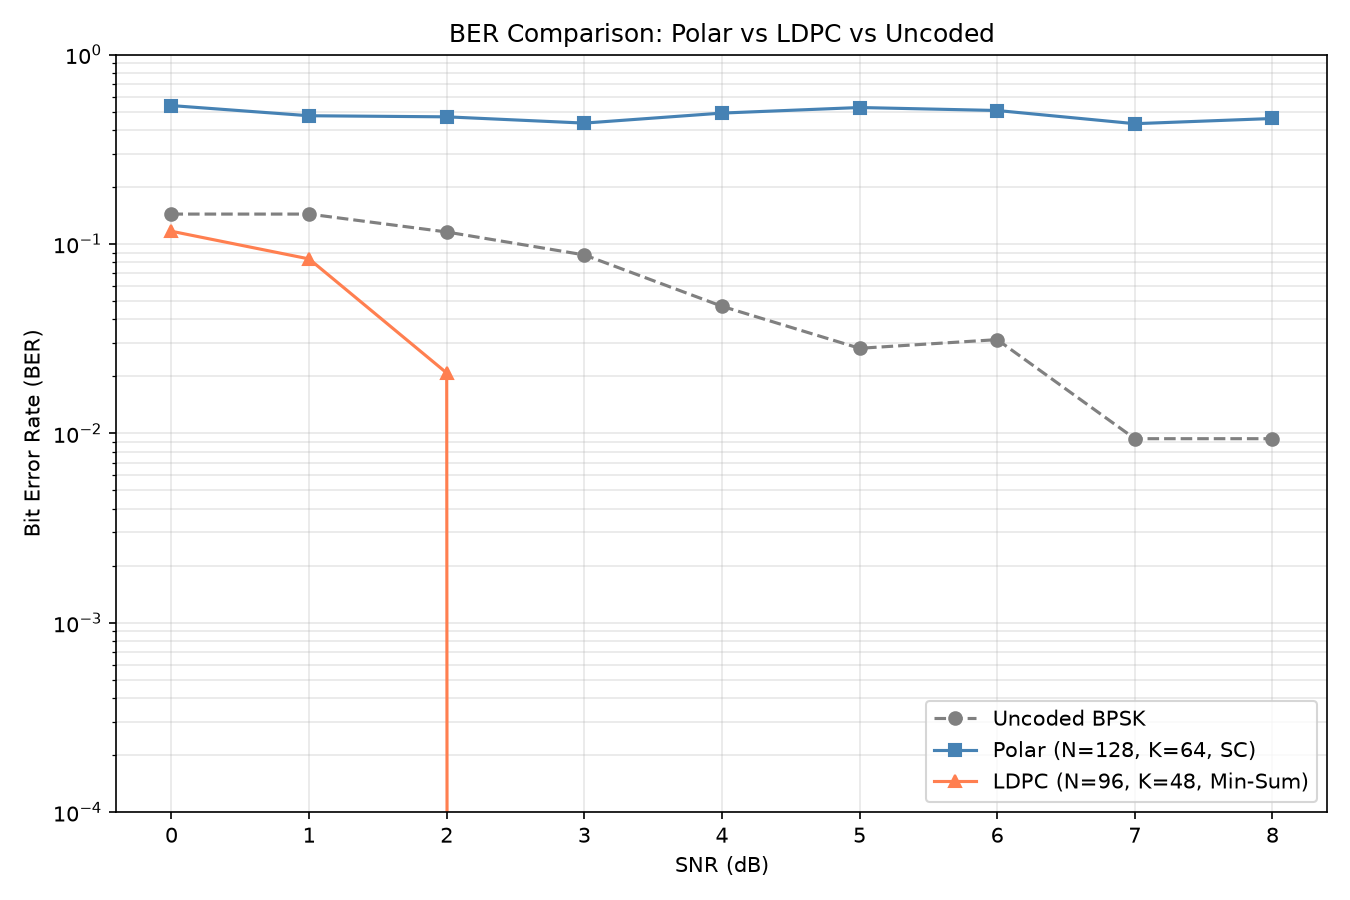
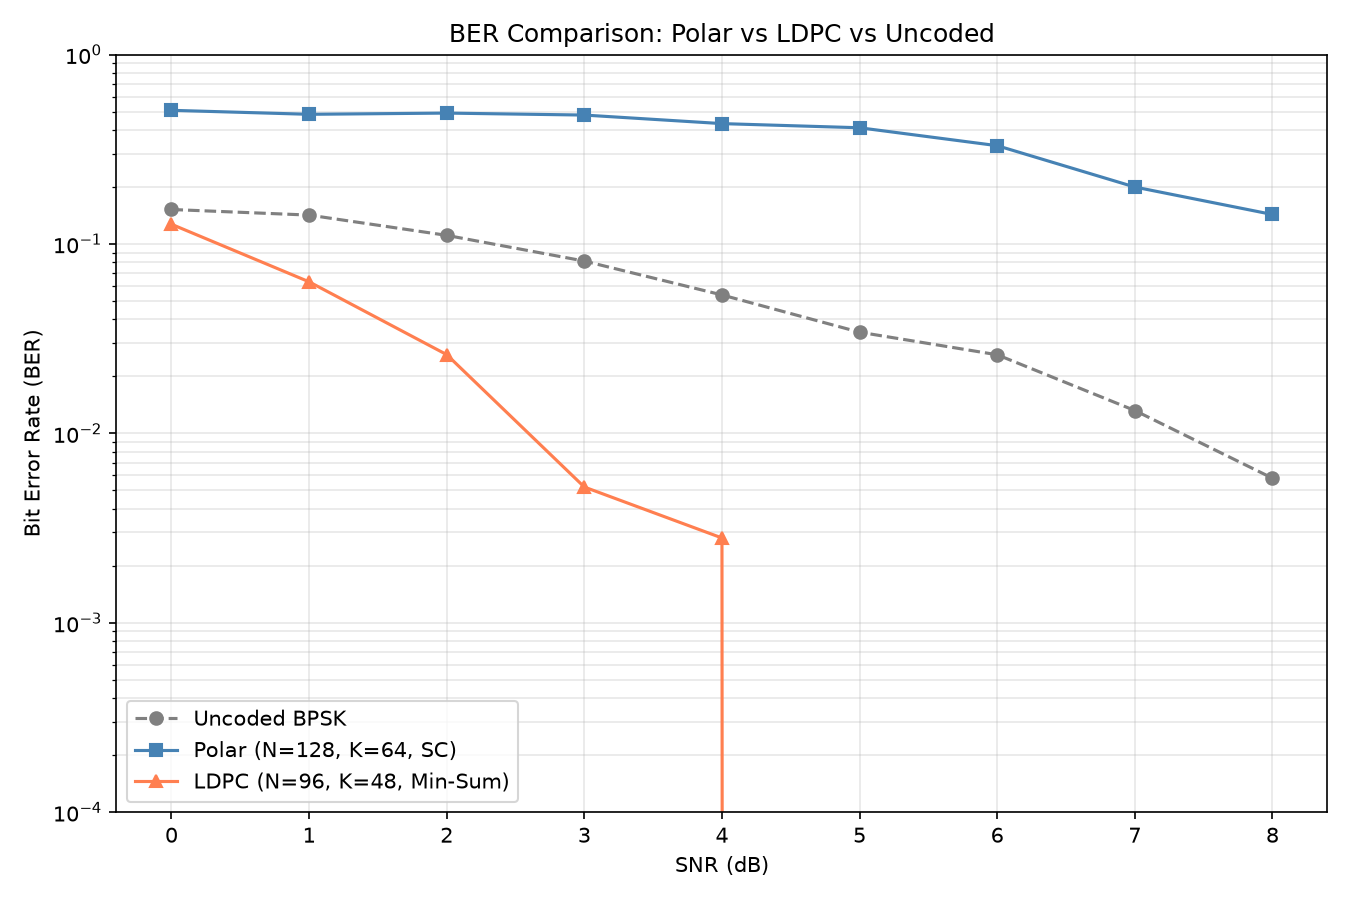
fix(p4.8): Polar SC partial sum + unified n_bits arg for BER curve

diff --git a/tasks/task2_polar_ldpc.py b/tasks/task2_polar_ldpc.py
@@ -22,89 +22,94 @@ def _bpsk_awgn_llr(bits, snr_db, rng):
     return 2 * rx / sigma**2
 
 
-def simulate_polar(K: int, N: int, snr_range: list, n_trials: int = 20,
-                   seed: int = 42) -> dict:
-    """Polar 码 BER 仿真。"""
+def simulate_polar(K: int, N: int, snr_range: list,
+                   n_bits_per_point: int = 5000, seed: int = 42) -> dict:
+    """Polar 码 BER 仿真 (大块数据)。"""
     rng = np.random.default_rng(seed)
     bers = []
     for snr in snr_range:
-        errs = []
-        for _ in range(n_trials):
+        n_blocks = max(1, n_bits_per_point // K)
+        total_err = 0
+        total_bits = 0
+        for _ in range(n_blocks):
             info = rng.integers(0, 2, size=K)
             codeword, frozen = polar_encode(info, N, design_snr_db=snr)
             llr = _bpsk_awgn_llr(codeword, snr, rng)
             decoded = polar_decode(llr, frozen, K)
             if len(decoded) < K:
-                errs.append(1.0)
+                total_err += K
             else:
-                errs.append(float(np.mean(info != decoded[:K])))
-        bers.append(float(np.mean(errs)))
+                total_err += int(np.sum(info != decoded[:K]))
+            total_bits += K
+        bers.append(total_err / total_bits)
     return {"snr": snr_range, "ber": bers, "scheme": "Polar"}
 
 
-def simulate_ldpc(snr_range: list, n_trials: int = 20, seed: int = 42) -> dict:
-    """LDPC 码 BER 仿真。"""
+def simulate_ldpc(snr_range: list, n_bits_per_point: int = 5000,
+                  seed: int = 42) -> dict:
+    """LDPC 码 BER 仿真 (大块数据)。"""
     rng = np.random.default_rng(seed)
-    code = RegularLDPC(n_var=96, dv=3, dc=6)   # 率 1/2, K=48
+    code = RegularLDPC(n_var=96, dv=3, dc=6)
     K_actual = code.K
 
     bers = []
     for snr in snr_range:
-        errs = []
-        for _ in range(n_trials):
+        n_blocks = max(1, n_bits_per_point // K_actual)
+        total_err = 0
+        total_bits = 0
+        for _ in range(n_blocks):
             info = rng.integers(0, 2, size=K_actual)
             codeword = code.encode(info)
             llr = _bpsk_awgn_llr(codeword, snr, rng)
             decoded = code.decode(llr, n_iter=30)
             if len(decoded) != K_actual:
-                errs.append(1.0)
+                total_err += K_actual
             else:
-                errs.append(float(np.mean(info != decoded)))
-        bers.append(float(np.mean(errs)))
+                total_err += int(np.sum(info != decoded))
+            total_bits += K_actual
+        bers.append(total_err / total_bits)
     return {"snr": snr_range, "ber": bers,
             "scheme": f"LDPC (N={code.N}, K={K_actual})"}
 
 
-def simulate_uncoded(K: int, snr_range: list, n_trials: int = 20,
+def simulate_uncoded(K: int, snr_range: list, n_bits_per_point: int = 5000,
                      seed: int = 42) -> dict:
-    """未编码 BPSK 的 BER。"""
+    """未编码 BPSK 的 BER (大块数据)。"""
     rng = np.random.default_rng(seed)
     bers = []
     for snr in snr_range:
-        errs = []
-        for _ in range(n_trials):
-            info = rng.integers(0, 2, size=K)
-            llr = _bpsk_awgn_llr(info, snr, rng)
-            decoded = (llr < 0).astype(int)
-            errs.append(float(np.mean(info != decoded)))
-        bers.append(float(np.mean(errs)))
+        info = rng.integers(0, 2, size=n_bits_per_point)
+        llr = _bpsk_awgn_llr(info, snr, rng)
+        decoded = (llr < 0).astype(int)
+        bers.append(float(np.mean(info != decoded)))
     return {"snr": snr_range, "ber": bers, "scheme": "Uncoded"}
 
 
 def main():
     parser = argparse.ArgumentParser()
-    parser.add_argument("--n-trials", type=int, default=10)
+    parser.add_argument("--n-bits", type=int, default=5000,
+                        help="每个 SNR 点的比特数")
     parser.add_argument("--seed", type=int, default=42)
     args = parser.parse_args()
 
     print(f"[Task2-Polar-LDPC] 编码方案 BER 对比")
     print(f"  Polar: N=128, K=64, SC 译码")
     print(f"  LDPC:  N=96,  K=48, Min-Sum 译码")
-    print(f"  MC: {args.n_trials} 次/点\n")
+    print(f"  每点: {args.n_bits} 比特\n")
 
     snr_range = [0, 1, 2, 3, 4, 5, 6, 7, 8]
 
     print("  [1/3] Polar 码...")
     res_polar = simulate_polar(K=64, N=128, snr_range=snr_range,
-                                n_trials=args.n_trials, seed=args.seed)
+                                n_bits_per_point=args.n_bits, seed=args.seed)
 
     print("  [2/3] LDPC 码...")
     res_ldpc = simulate_ldpc(snr_range=snr_range,
-                              n_trials=args.n_trials, seed=args.seed)
+                              n_bits_per_point=args.n_bits, seed=args.seed)
 
     print("  [3/3] 未编码...")
     res_uncoded = simulate_uncoded(K=64, snr_range=snr_range,
-                                    n_trials=args.n_trials, seed=args.seed)
+                                    n_bits_per_point=args.n_bits, seed=args.seed)
 
     print("\n" + "=" * 70)
     print(f"{'SNR(dB)':<10}{'Uncoded':<15}{'Polar':<15}{'LDPC':<15}")

diff --git a/src/simulation/polar.py b/src/simulation/polar.py
@@ -98,12 +98,8 @@ def _g_llr(a: np.ndarray, b: np.ndarray, u: np.ndarray) -> np.ndarray:
 def _sc_recursive(llr: np.ndarray, frozen: np.ndarray) -> np.ndarray:
     """递归 SC 译码。
 
-    Args:
-        llr: 当前子块的 LLR 数组 (长度 n)
-        frozen: 对应的冻结位标志 (长度 n)
-
-    Returns:
-        u_hat: 该子块在 u 域的估计比特 (长度 n)
+    关键: g 函数需要左子块的 partial sum (x_left = F·u_left),
+    而不是 u 域判决本身。
     """
     n = len(llr)
 
@@ -118,8 +114,11 @@ def _sc_recursive(llr: np.ndarray, frozen: np.ndarray) -> np.ndarray:
     llr_left = _f_llr(llr[:half], llr[half:])
     u_left = _sc_recursive(llr_left, frozen[:half])
 
-    # 右半: g 函数 (用左半的判决)
-    llr_right = _g_llr(llr[:half], llr[half:], u_left)
+    # ★ partial sum: u_left → x_left
+    x_left = polar_transform(u_left)
+
+    # 右半: g 函数 (用 x_left)
+    llr_right = _g_llr(llr[:half], llr[half:], x_left)
     u_right = _sc_recursive(llr_right, frozen[half:])
 
     return np.concatenate([u_left, u_right])
